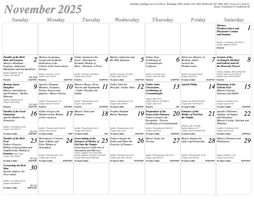
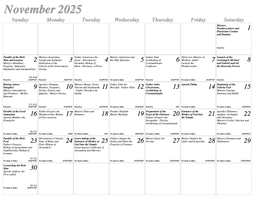
Update Gospel reading for Mo/9AC
Luke 12:1,12-15 -> Luke 14:1,12-15

diff --git a/calendar/2025/2025-11.html b/calendar/2025/2025-11.html
@@ -384,12 +384,12 @@ Tones: Octoechos (<span class='lastline'>T</span>), Eothinon (<span class='lastl
       </div>
       <div class='lower'>
         <div class='regular reading'> Epistle: 1 Thessalonians 2:20,3:1-8</div>
-        <div class='regular reading'> Gospel: Luke 12:1,12-15</div>
+        <div class='regular reading'> Gospel: Luke 14:1,12-15</div>
         <div class='tone'></div>
         <div class='lastline'>
           <div class='line'>
             <div class='fast'>No meat or dairy</div>
-            <div class='lectionary'>24AP</div>
+            <div class='lectionary'>24AP/9AC</div>
           </div>
         </div>
       </div>

diff --git a/calendar/2024/2024-11.html b/calendar/2024/2024-11.html
@@ -258,12 +258,12 @@ Tones: Octoechos (<span class='lastline'>T</span>), Eothinon (<span class='lastl
       </div>
       <div class='lower'>
         <div class='regular reading'> Epistle: 1 Timothy 1:1-7</div>
-        <div class='regular reading'> Gospel: Luke 12:1,12-15</div>
+        <div class='regular reading'> Gospel: Luke 14:1,12-15</div>
         <div class='tone'></div>
         <div class='lastline'>
           <div class='line'>
             <div class='fast'>Fast free</div>
-            <div class='lectionary'>26AP</div>
+            <div class='lectionary'>26AP/9AC</div>
           </div>
         </div>
       </div>
